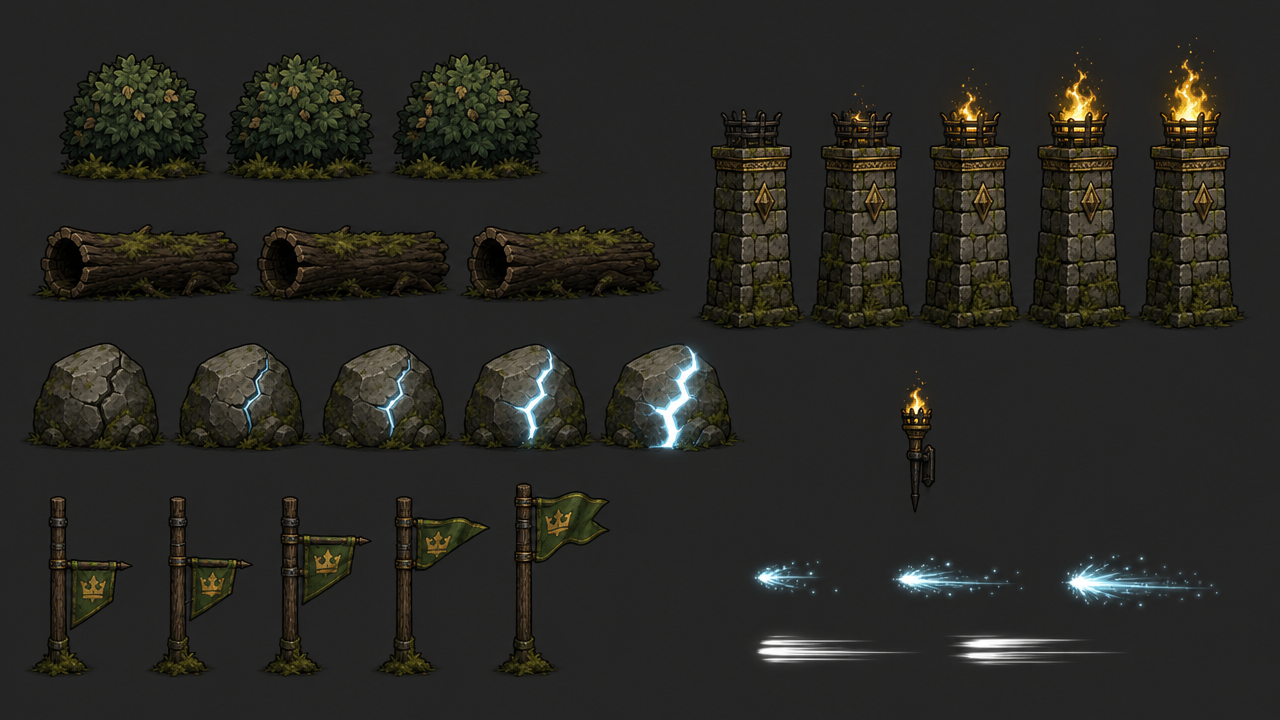
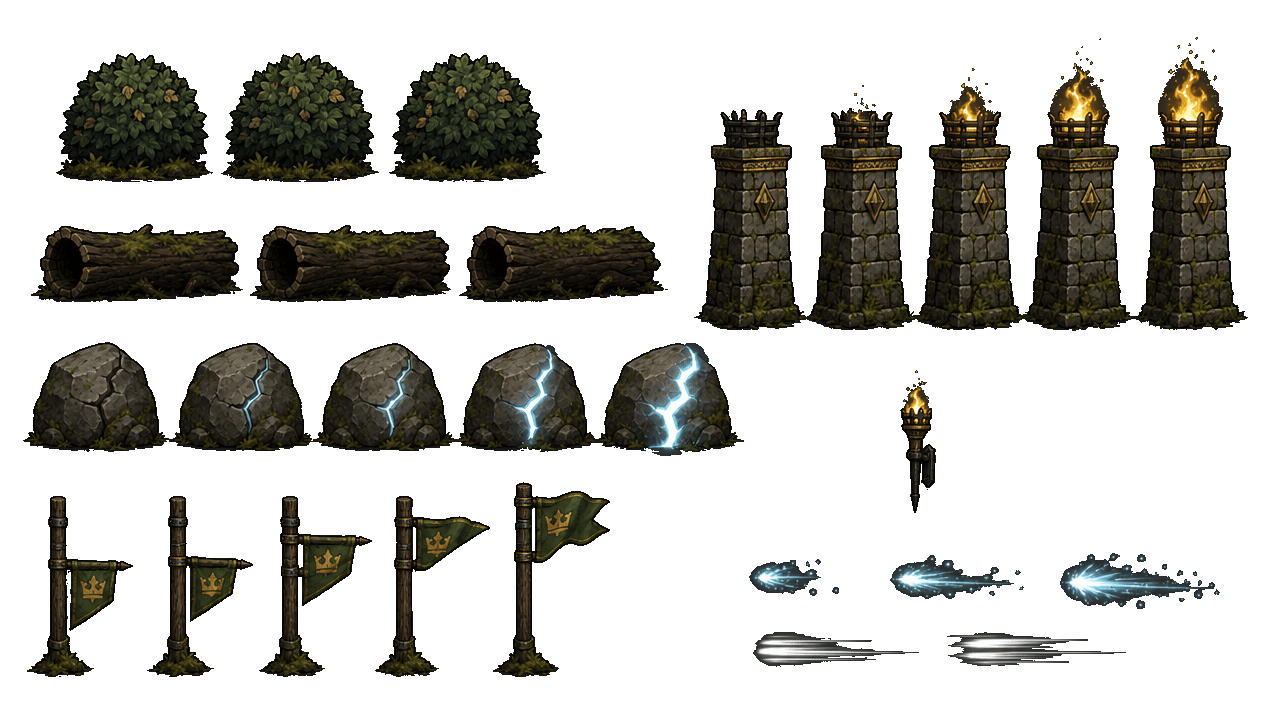
Tileset cleaned by hand, prop sheet re-exported with alpha, provenance updated
Hobby Wizard history (VirtusLab/visdom-sandbox-hobby-wizard, Apache-2.0), tree only, under system/.

diff --git a/system/assets/PROVENANCE.md b/system/assets/PROVENANCE.md
@@ -1,6 +1,6 @@
 ---
 title: Asset provenance for the raw art in assets/
-date: 2026-09-10
+date: 2026-09-16
 kind: asset-brief
 ---
 
@@ -9,15 +9,16 @@ kind: asset-brief
 Written for the prototype repository, whose `assets/` layout this repository keeps. Extend it for every new raw.
 
 Every file here is generated art that the asset kit (`tools/asset-kit`) turns into
-`public/assets`. Backgrounds, the wizard idle and charge sheets, the tileset, the prop sheet
-and the splash were generated with ElevenLabs Image (Nano Banana) on 2026-09-08 and
-2026-09-09 from the prompts in the prototype repository's
-`docs/plans/2026-09-08-mvp-forest-spec.md`, section 5 (VirtusLab/visdom-sandbox), at 1280×720.
+`public/assets`. Backgrounds, the wizard sheets, the tileset, the prop sheet and the
+splash were generated with ElevenLabs Image (Nano Banana) on 2026-09-08 and 2026-09-09
+from the prompts in the prototype repository's `docs/plans/2026-09-08-mvp-forest-spec.md`, section 5
+(VirtusLab/visdom-sandbox), at 1280×720; the prompts are kept in `docs/plan/03-assets/prompts/`.
 The level panels and the walk, jump and fall sheets were generated with GPT Image 2 on
 2026-09-09 and 2026-09-10 from the prompts recorded in the same spec and in the rebuild
 brief. Only files the build consumes live in this directory; the build fails on any
-output it cannot account for. Sheets come on a solid magenta or dark page; the kit keys
-the page colour.
+output it cannot account for. Sheets may come with a real alpha channel or on a
+solid magenta or dark page; the kit reads the alpha when it is there and keys the
+page colour when it is not.
 
 | File | What it is | Becomes |
 |---|---|---|
@@ -30,14 +31,14 @@ the page colour.
 | wizard-walk.png | walk cycle, 8 labelled frames; first of four variants | sprites/wizard-run.png, 7 px pitch so the frames match the idle height |
 | wizard-jump.png | jump arc, 7 labelled poses; second of four variants, the one without dust puffs | sprites/wizard-jump.png, 7 px pitch |
 | wizard-fall.png | long fall, 3 flailing poses and a dusty landing; second of four variants | sprites/wizard-fall.png, 7 px pitch, 40 × 32 cells |
-| tileset.png | forest tileset, eleven tiles on a grid on a page colour; fourth of four generated variants, to be cleaned by hand to a transparent sheet | tiles/forest.png, sliced by grid in tools/asset-kit/tiles.ts |
-| props-sheet.png | bush, log, rock, flag, beacon, torch, sparks with frames, on a dark page; second of four variants | props/*.png, cut through the region mapping in tools/asset-kit/props.ts. torch and sparks are built but no room places a torch and the sparks are not drawn yet |
+| tileset.png | forest tileset, eleven tiles on a transparent sheet in a known grid (205 x 202 cells from 39,39 with 39 px gaps, then the plank and the spike trap); cleaned by hand on 2026-09-16 from the fourth of four generated variants | tiles/forest.png, sliced by grid in tools/asset-kit/tiles.ts |
+| props-sheet.png | bush, log, rock, flag, beacon, torch, sparks with frames; second of four variants, re-exported on 2026-09-15 with a real alpha channel instead of the dark page | props/*.png, cut through the region mapping in tools/asset-kit/props.ts. torch and sparks are built but no room places a torch and the sparks are not drawn yet |
 | painting-ruin-gate-1.png | ruin gate level panel, 3:1 at 3840×1280 | left half of paintings/ruin-gate.png; the kit cuts the bridge open before keying (tools/asset-kit/paintings.ts) |
 | painting-ruin-gate-2.png | collapsed courtyard continuation, generated with panel 1 as reference | right half of paintings/ruin-gate.png |
 
 ## Tried and set aside
 
-Kept outside this repository, so the tree carries only what the game uses:
+Moved out of the repository on 2026-09-15 and kept outside it, so the tree carries only what the game uses:
 
 - bg-mountains.png, sparse peaks; replaced by the big range.
 - bg-hills.png, far hills; never built.
@@ -45,5 +46,6 @@ Kept outside this repository, so the tree carries only what the game uses:
   seven-layer stack was reduced to four on 2026-09-09.
 - wizard-poses.png, the wizard reference sheet; reference only.
 - tileset-candidate-1..3.png and props-sheet-1, 3, 4.png, the rejected variants.
-- The rejected walk, jump and fall variants. The fourth fall variant, a tumble into a
-  face-down flop, is a candidate for a death animation if a dying pause is ever added.
+- The rejected walk, jump and fall variants, including copies of the three chosen sheets.
+  The fourth fall variant, a tumble into a face-down flop, is a candidate for a death
+  animation if a dying pause is ever added.
